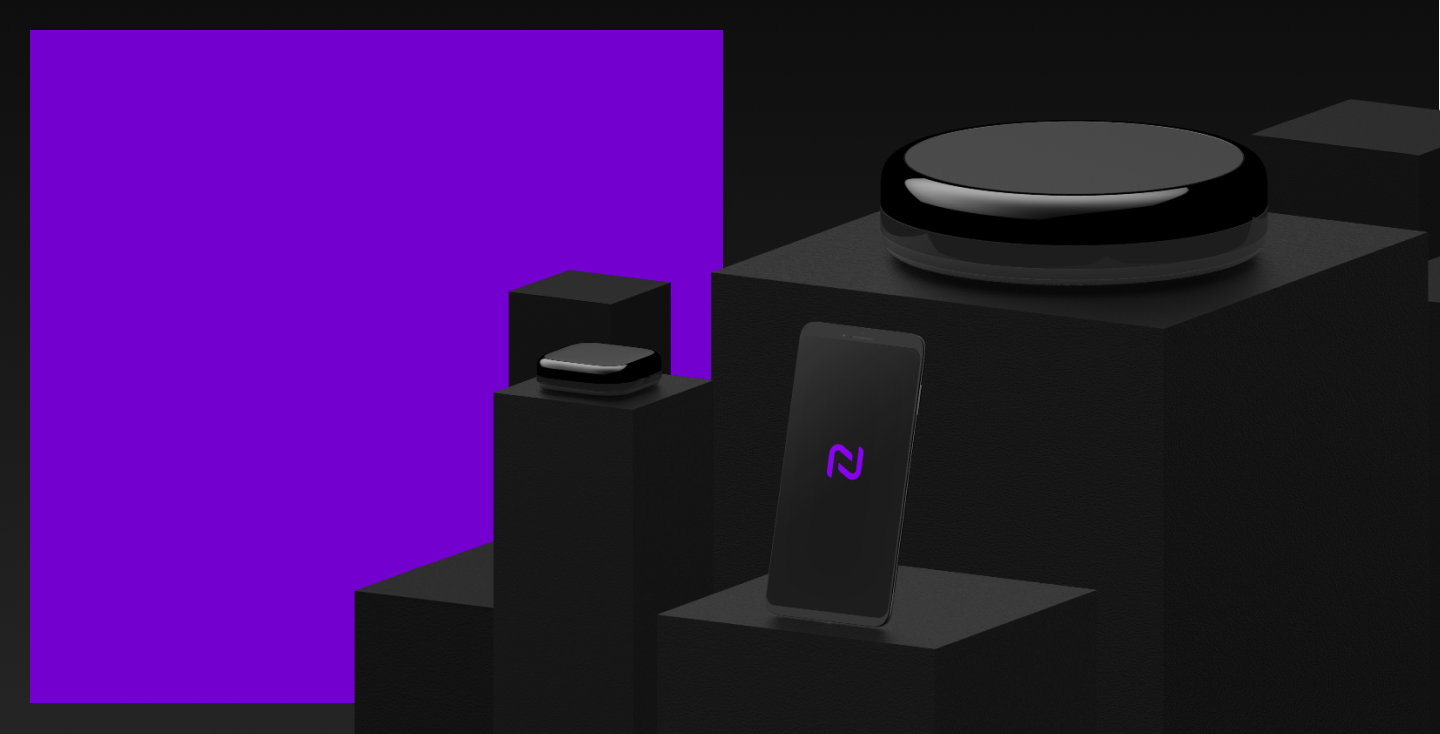
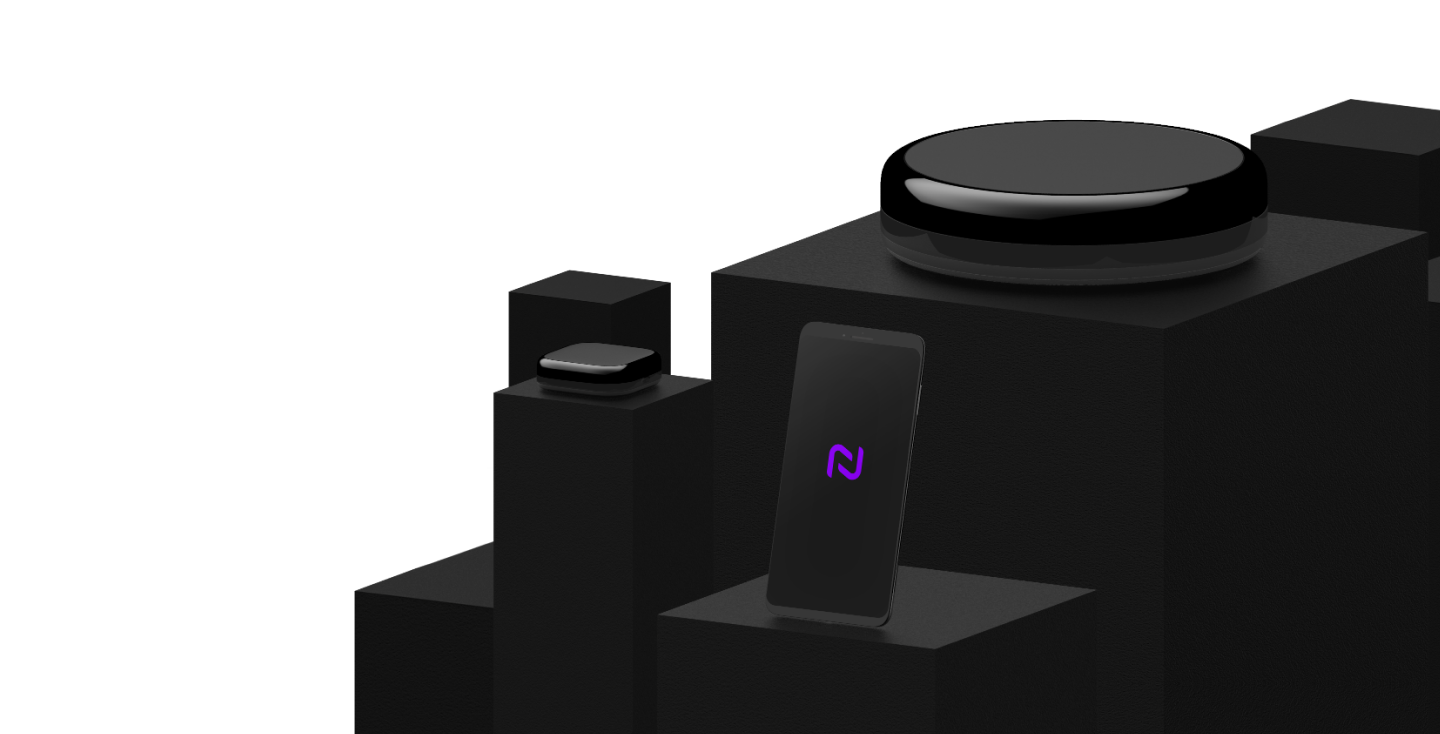
stopgap

diff --git a/website/src/components/Hotspot/styles.css b/website/src/components/Hotspot/styles.css
@@ -3,8 +3,6 @@
 .module {
   align-self: stretch;
   flex: 0 1;
-  background: linear-gradient(180deg, #0E0E0E 0%, #252525 100%);
-  /*background: linear-gradient(to bottom, black 0%,black 50%,#000000 50%,white 50%,white 100%);*/
 }
 
 .grid {
@@ -13,19 +11,17 @@
   flex-direction: row;
   align-items: center;
   justify-content: flex-start;
-  align-self: stretch;
   margin: 30px;
-  background: linear-gradient(to right, #7400CF 0%,#7400CF 50%, black 50%,black 100%);
 }
 
 .gridLeft {
-  background-color: #7400CF;
   align-self: stretch;
   display: flex;
   flex: 1;
   position: relative;
   flex-direction: column;
   justify-content: flex-end;
+  align-items: flex-start;
 }
 
 .image {
@@ -33,7 +29,7 @@
 }
 
 .gridText {
-  position: relative;
+  position: absolute;
   top: 120px;
   left: 100px;
   width: 300px;
@@ -48,14 +44,15 @@
   align-self: stretch;
   display: flex;
   flex: 1;
+  background-color: #8F00FF;
 }
 
 .title {
   font-family: var(--font-replica-light);
   font-weight: 100;
-  line-height: 75px;
-  font-size: 72px;
-  letter-spacing: 1.44px;
+  line-height: 54px;
+  font-size: 54px;
+  color: #333333;
   margin: 0;
 }
 
@@ -64,18 +61,15 @@
   font-weight: 100;
   line-height: 26px;
   font-size: 18px;
-  letter-spacing: 0.36px;
+  letter-spacing: 0.9px;
+  color: #828282;
   margin: 20px 0;
 }
 
-.borderLink {
-  font-family: var(--font-replica-light);
-  line-height: 20px;
-  font-size: 15px;
-  text-align: center;
-  letter-spacing: 0.75px;
-  color: #00F9B8;
-  border: 3px solid #00F9B8;
-  padding: 5px;
-
+.rightTitle {
+  width: 100px;
+  margin: 30px 0 0 30px;
+  line-height: 30px;
+  font-size: 30px;
+  color: #FFFFFF;
 }

diff --git a/website/src/components/Grid/index.js b/website/src/components/Grid/index.js
@@ -1,39 +1,27 @@
 import React from 'react';
 import s from './styles.css';
 
-// function Grid(props) {
-//   return (
-//     <div className={s.module}>
-//       <div className={s.grid}>
-
-//         <div className={s.gridText}>
-//           <div className={s.title}>
-//             Get off the grid
-//           </div>
-//           <div className={s.subtitle}>
-//             The future of blockchain is almost here. Order Alpha to get started.
-//           </div>
-//           <a href='#' className={s.borderLink}>Order Alpha</a>
-//         </div>
-//       </div>
-//     </div>
-//   );
-// }
-
 function Grid(props) {
   return (
     <div className={s.module}>
       <div className={s.grid}>
         <div className={s.gridLeft}>
-          pruple
+        <div className={s.gridText}>
+            <div className={s.title}>
+              Get off the grid
+            </div>
+            <div className={s.subtitle}>
+              The future of blockchain is almost here. Order Alpha to get started.
+            </div>
+          <img src='/images/marquee.png' className={s.image}/>
+          
+            <a href='#' className={s.borderLink}>Order Alpha</a>
+          </div>
         </div>
-        <div className={s.gridRight}>
-          <img src='/images/marquee2.png' className={s.backgroundImage}/>
-        </div>
+        <div className={s.gridRight} />
       </div>
     </div>
   );
 }
-
 
 export default Grid;

diff --git a/website/src/components/ProductEcosystem/styles.css b/website/src/components/ProductEcosystem/styles.css
@@ -4,7 +4,6 @@
   align-self: stretch;
   flex: 0 1;
   background: linear-gradient(180deg, #0E0E0E 0%, #252525 100%);
-  /*background: linear-gradient(to bottom, black 0%,black 50%,#000000 50%,white 50%,white 100%);*/
 }
 
 .grid {
@@ -15,7 +14,6 @@
   justify-content: flex-start;
   align-self: stretch;
   margin: 30px;
-  background: linear-gradient(to right, #7400CF 0%,#7400CF 50%, black 50%,black 100%);
 }
 
 .gridLeft {
@@ -33,7 +31,7 @@
 }
 
 .gridText {
-  position: relative;
+  position: absolute;
   top: 120px;
   left: 100px;
   width: 300px;
@@ -53,8 +51,9 @@
 .title {
   font-family: var(--font-replica-light);
   font-weight: 100;
-  line-height: 75px;
-  font-size: 72px;
+  line-height: 54px;
+  font-size: 54px;
+  color: #F2F2F2;
   letter-spacing: 1.44px;
   margin: 0;
 }
@@ -62,20 +61,9 @@
 .subtitle {
   font-family: var(--font-replica-light);
   font-weight: 100;
-  line-height: 26px;
-  font-size: 18px;
-  letter-spacing: 0.36px;
+  line-height: 18px;
+  font-size: 12px;
+  letter-spacing: 0.6px;
+  color: #F2F2F2;
   margin: 20px 0;
-}
-
-.borderLink {
-  font-family: var(--font-replica-light);
-  line-height: 20px;
-  font-size: 15px;
-  text-align: center;
-  letter-spacing: 0.75px;
-  color: #00F9B8;
-  border: 3px solid #00F9B8;
-  padding: 5px;
-
 }

diff --git a/website/src/components/ProductEcosystem/index.js b/website/src/components/ProductEcosystem/index.js
@@ -1,0 +1,27 @@
+import React from 'react';
+import s from './styles.css';
+
+function ProductEcosystem(props) {
+  return (
+    <div className={s.module}>
+      <div className={s.grid}>
+        <div className={s.gridLeft}>
+          <img src='/images/familyshot.png' className={s.image}/>
+          <div className={s.gridText}>
+            <div className={s.title}>
+              At home, on the go & on your phone
+            </div>
+            <div className={s.subtitle}>
+               Nether’s vision is to create devices that enable end-to-end privacy to its users.
+               Nether hardware technology will allow you access to the LMNOP network and
+               will provide higher level of privacy and security.
+            </div>
+          </div>
+        </div>
+        <div className={s.gridRight} />
+      </div>
+    </div>
+  );
+}
+
+export default ProductEcosystem;

diff --git a/website/src/components/Hotspot/index.js b/website/src/components/Hotspot/index.js
@@ -1,0 +1,29 @@
+import React from 'react';
+import s from './styles.css';
+
+function ProductEcosystem(props) {
+  return (
+    <div className={s.module}>
+      <div className={s.grid}>
+        <div className={s.gridLeft}>
+          <img src='/images/spot.png' className={s.image}/>
+          <div className={s.gridText}>
+            <div className={s.title}>
+              Portable Privacy
+            </div>
+            <div className={s.subtitle}>
+               Nether Designed Mobile Hotspot built for getting you off the grid even when you’re on it.
+            </div>
+          </div>
+        </div>
+        <div className={s.gridRight}>
+          <div className={s.rightTitle}>
+            Nether Spot
+          </div>
+        </div>
+      </div>
+    </div>
+  );
+}
+
+export default ProductEcosystem;

diff --git a/website/src/pages/home/Desktop.js b/website/src/pages/home/Desktop.js
@@ -4,6 +4,8 @@ import IconButton from 'material-ui/IconButton';
 
 import Header from '../../components/Header';
 import Grid from '../../components/Grid';
+import ProductEcosystem from '../../components/ProductEcosystem';
+import Hotspot from '../../components/Hotspot';
 
 import s from './desktop.css';
 
@@ -12,6 +14,8 @@ function Desktop(props) {
     <div className={s.container}>
       <Header />
       <Grid />
+      <ProductEcosystem />
+      <Hotspot />
     </div>
   );
 }
